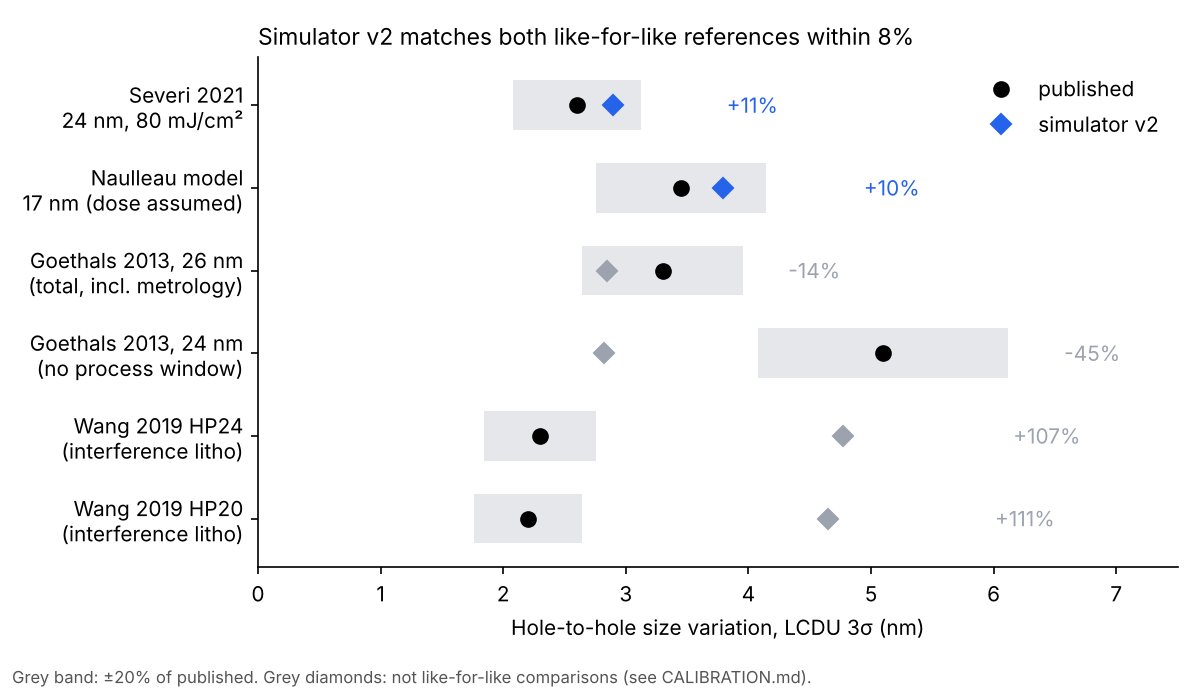
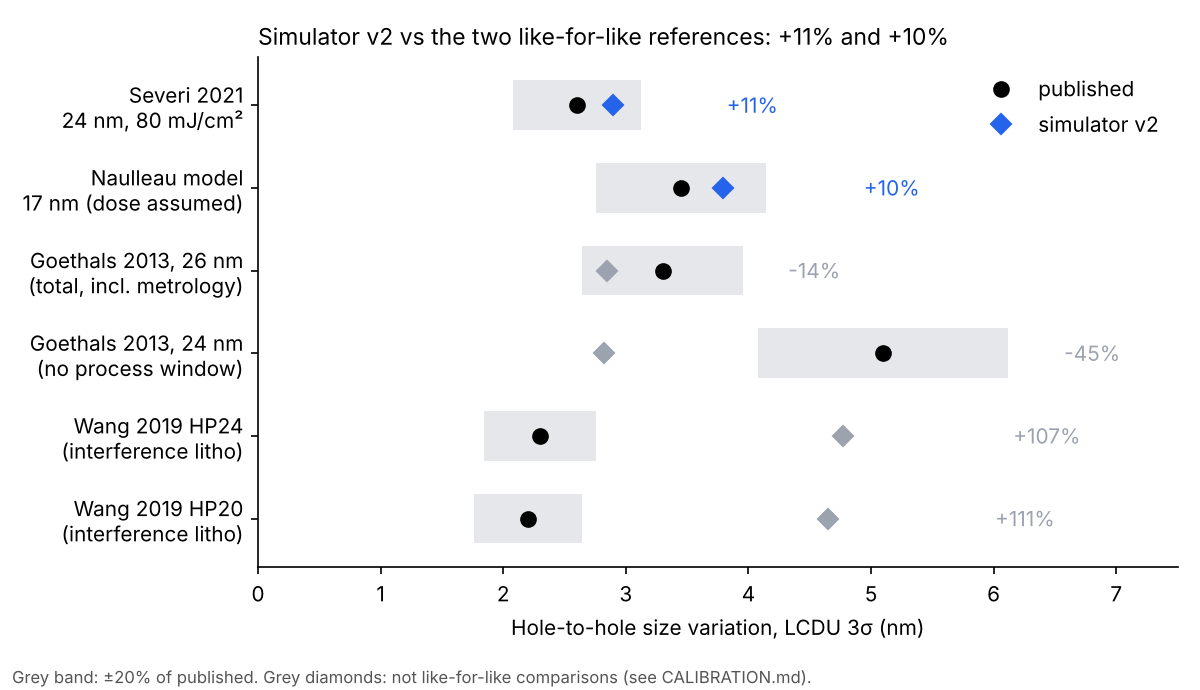
Second audit: fix stale calibration figure title and source attributions
- calibration_lcdu.png said "matches both like-for-like references within
  8%" (pass 1, since withdrawn); its own data shows +11% and +10%. Titles
  in make_figures.py are now computed from the data; figure regenerated
- CALIBRATION.md: credit QE, PAG and the deprotection rate to Naulleau &
  Gallatin 2018 (two authors, not "et al."); note that the 60 s bake behind
  K is assumed (the paper gives no bake time); remove the "Mack 2011,
  EUV stochastic quenching kinetics" citation, which could not be found
- SemiWiki/imec 1 ppm claim: the article doesn't say whether the 40 nm
  pitch pattern was holes or lines; wording narrowed in CALIBRATION.md and
  VERIFICATION.md
- README: full/test data are committed; run all 16 tests with pytest and
  the constants check; add pytest to requirements

Claude-Session: https://claude.ai/code/session_0129iss9DjfK2HnBe8XK94QD

Changed region(s): [[0.3392, 0.0304, 0.8017, 0.0913]]

diff --git a/sim/make_figures.py b/sim/make_figures.py
@@ -36,7 +36,10 @@ ax.set_yticks(range(len(rows)), [x[0] for x in rows])
 ax.invert_yaxis()
 ax.set_xlabel("Hole-to-hole size variation, LCDU 3σ (nm)")
 ax.set_xlim(0, 7.5)
-ax.set_title("Simulator v2 matches both like-for-like references within 8%", loc="left", fontsize=11)
+# headline computed from the like-for-like rows, not typed in (pass 1 said "within 8%", since withdrawn)
+like = [(d["lcdu_3s"] - d["published_lcdu"]) / d["published_lcdu"] for _, d, comparable in rows if comparable]
+ax.set_title("Simulator v2 vs the two like-for-like references: " + " and ".join(f"{v:+.0%}" for v in like),
+             loc="left", fontsize=11)
 ax.legend(loc="upper right", frameon=False)
 fig.text(0.01, 0.01, "Grey band: ±20% of published. Grey diamonds: not like-for-like comparisons (see CALIBRATION.md).",
          fontsize=8, color="#555")
@@ -45,11 +48,13 @@ fig.savefig(RESULTS + "/calibration_lcdu.png", dpi=150)
 
 # ---- 2. CD vs dose (Yen 2018) ----------------------------------------------------------
 y = r["T5_yen2018"]["sweep"]
+yen = {30: 15.0, 33: 17.4, 36: 19.5, 39: 21.2}   # Yen 2018 slides: dose (mJ/cm2) -> mean CD (nm)
 fig, ax = plt.subplots(figsize=(5.2, 3.8))
-ax.plot([30, 33, 36, 39], [15.0, 17.4, 19.5, 21.2], "o-", color="black", label="Yen 2018 (ASML simulation)")
+ax.plot(list(yen), list(yen.values()), "o-", color="black", label="Yen 2018 (ASML simulation)")
 ax.plot([s["dose"] for s in y], [s["mean_cd"] for s in y], "D--", color=BLUE, label="simulator v2")
 ax.set_xlabel("Dose (mJ/cm²)"); ax.set_ylabel("Mean hole size (nm)")
-ax.set_title("Printed size vs dose matches ASML's simulation within 5%", loc="left", fontsize=11)
+worst = max(abs(s["mean_cd"] - yen[s["dose"]]) / yen[s["dose"]] for s in y if s["dose"] in yen)
+ax.set_title(f"Printed size vs dose matches ASML's simulation within {np.ceil(worst * 100):.0f}%", loc="left", fontsize=11)
 ax.legend(frameon=False)
 fig.tight_layout(); fig.savefig(RESULTS + "/calibration_cd_vs_dose.png", dpi=150)
 

diff --git a/results/CALIBRATION.md b/results/CALIBRATION.md
@@ -6,7 +6,7 @@
 
 Simulator v2 produces realistic numbers for a typical chemically amplified resist. Hole-to-hole size variation (LCDU) lands between −14% and +29% across eight comparisons with typical processes (measured data, industry data and two other models). The best modern resists do 30–50% better than the model (these are non-CAR resists, so not like-for-like; see VERIFICATION.md, Nov 25 correction). Printed size versus dose matches an ASML simulation within 5%, and every qualitative trend in the literature appears. The resist parameter that gets fitted (quencher loading) always lands inside its published range.
 
-The weakest part is the **absolute rate of missing holes**. The failure cliffs have the right shape and roughly the right level (consistent with imec's ~1 ppm floor at 40 nm pitch), but rates are uncertain by about an order of magnitude. Treat them as estimates.
+The weakest part is the **absolute rate of missing holes**. The failure cliffs have the right shape and roughly the right level (consistent with imec's report, via SemiWiki 2019, that the two failure cliffs touch around 1 ppm for a 40 nm pitch pattern), but rates are uncertain by about an order of magnitude. Treat them as estimates.
 
 ## What the model does
 
@@ -29,15 +29,15 @@ Every hole gets a printed size (equivalent-circle diameter of its largest connec
 | --- | --- | --- |
 | Absorptivity | 4.2 /µm | Naulleau et al. (Berkeley MPPM model); Fallica 2015 measured 4.2–5.3 /µm for organic resists |
 | Film thickness | 35 nm | Naulleau et al.; Fallica 2015 (25–45 nm) |
-| Acids per absorbed photon (QE) | 2.8 | Naulleau et al., JM3 2018 (2.8); "Extreme stochastic events" (3) |
-| PAG density | 0.20 /nm³ | Naulleau et al.; Mack 2011 (0.2) |
+| Acids per absorbed photon (QE) | 2.8 | Naulleau & Gallatin, JM3 2018 (2.8); "Extreme stochastic events" (3) |
+| PAG density | 0.20 /nm³ | Naulleau et al. (0.2); Naulleau & Gallatin, JM3 2018 (0.2) |
 | Protecting groups | 2 /nm³ | Naulleau et al. |
 | Electron blur σ | 1.7 nm | Electron range 4 nm (Naulleau, read as full width at half maximum); Bhattarai 2017: 1.8–2 nm |
 | Acid diffusion σ | 5.0 nm | Acid range 10–12 nm (Naulleau, read as full width at half maximum); Gronheid 2011: ~4–5 nm |
 | Quencher diffusion σ | 1.3 nm | Quencher range 3 nm (Naulleau, read as full width at half maximum) |
-| Deprotection × bake, K | 60 nm³ | Naulleau et al., JM3 2018: 1 nm³/s × ~60 s bake |
+| Deprotection × bake, K | 60 nm³ | Naulleau & Gallatin, JM3 2018: deprotection rate 1 nm³/s, × an assumed 60 s bake (the paper gives no bake time) |
 | Development threshold | 50% deprotected | Assumed (standard threshold model) |
-| Quencher density | **fitted** per case | Must land in the published 0.012–0.09 /nm³ range (Mack 2011; Naulleau; AIP Advances 2025) |
+| Quencher density | **fitted** per case | Must land in the published 0.012–0.09 /nm³ range (Naulleau & Gallatin 2018: 0.09; Naulleau et al.: 0.085; AIP Advances 2025: base 10–20% of PAG) |
 
 The phrase "range" in Naulleau et al. is interpreted as full width at half maximum. That interpretation makes all three blur values agree with independent measurements.
 
@@ -94,11 +94,12 @@ On one CPU core: about 2,000 holes per setting in 1.2–2.2 s (4× longer with f
 
 - Severi, Lorusso, De Simone, Mack 2021, *Measuring and analyzing contact hole variations in EUV lithography*, Proc. SPIE 11609
 - Naulleau, Bhattarai, Neureuther, *Understanding Extreme Stochastic Events in EUV Resists* (escholarship.org, qt3qr9g2g7)
-- Naulleau et al. 2018, *Relative importance of various stochastic terms and EUV patterning*, JM3 17(4) 041015
+- Naulleau & Gallatin 2018, *Relative importance of various stochastic terms and EUV patterning*, JM3 17(4) 041015
 - Goethals et al. 2013, *EUV resist evaluation and process optimization towards NXE:3300*, EUVL Symposium
 - Wang et al. 2019, *Progress in EUV resists for contact holes printing using EUV interference lithography*, Proc. SPIE 11177
 - Yen 2018, EUVL Workshop slides (euvlitho.com/2018/P3.pdf)
-- Mack 2019, *Metrics for stochastic scaling in EUV lithography*, Proc. SPIE; Mack 2011, *EUV stochastic quenching kinetics* (lithoguru.com)
+- Mack 2019, *Metrics for stochastic scaling in EUV lithography*, Proc. SPIE
+- (Nov 26: an earlier version also cited "Mack 2011, *EUV stochastic quenching kinetics*". No publication with that title could be found, so it was removed; the PAG and quencher values it was cited for are covered by Naulleau & Gallatin 2018 and the AIP Advances paper.)
 - Fallica et al. 2015, EUV absorption coefficients of resists (EUVL Symposium poster)
 - Bhattarai 2017, UC Berkeley thesis EECS-2017-125; Gronheid et al. 2011, JM3 10(3) 033004
 - *Impact of chemical stochastics in EUV photoresists on the pattern quality*, AIP Advances 15, 035236 (2025)

diff --git a/results/VERIFICATION.md b/results/VERIFICATION.md
@@ -129,7 +129,7 @@ The cliff tails (rates of 10⁻⁴ to 0.2) were fitted as straight lines in log-
 | 50 mJ/cm² | 51.1 | 48.2 | 50.5 | 2 × 10⁻⁶ |
 | 80 mJ/cm² | 77.2 | 104.7 | 83.1 | 3 × 10⁻⁸ |
 
-A window with both rates below 10⁻⁶ opens for resists sized at roughly 55 mJ/cm² and above. ASML's simulation needs 79 mJ/cm² for the same goal, and imec measured cliffs touching around 1 ppm at this pitch. So v2 has the right order of magnitude but leans optimistic, consistent with the missing-hole comparisons above. Merging now needs a real bridge, so it starts at 160–180% of the sizing dose.
+A window with both rates below 10⁻⁶ opens for resists sized at roughly 55 mJ/cm² and above. ASML's simulation needs 79 mJ/cm² for the same goal, and imec reported the two failure cliffs touching around 1 ppm for a 40 nm pitch pattern (SemiWiki's summary does not say whether the pattern was holes or lines). So v2 has the right order of magnitude but leans optimistic, consistent with the missing-hole comparisons above. Merging now needs a real bridge, so it starts at 160–180% of the sizing dose.
 
 ### Fresh seeds, larger samples
 
@@ -188,7 +188,7 @@ Every number reproduces within 2%, so the comparisons are not luck of the draw.
 | P40 hexagonal pillars/CH LCDU 2.7 / 2.2 / 2.1 / 2.0 nm at 66 / 65 / 61 / 53 mJ/cm² (2018–2021) | ASML (van Schoot), EUVL Workshop 2021; Santaclara et al., EUVL Workshop 2021 | Slides read | Confirmed numbers. **Corrected Nov 25:** originally listed as CAR; the slides label 2018, 2019 and 2021 non-CAR and 2020 CAR |
 | P40 dense holes at 0.33 NA need 79 mJ/cm² for <10⁻⁶ defect rate | ASML, EUVL Workshop 2021 | Slides read | Confirmed; simulated |
 | 24 nm HP regular holes: LCDU 3.2 nm (small annular, 31 mJ/cm² resist) | van Ingen Schenau 2013 (ASML) | Slides via search | Confirmed numbers; sigma values assumed |
-| Cliffs "touch at around 1 ppm" at 40 nm pitch | imec via SemiWiki 2019 | Article text | Confirmed (dose not stated) |
+| Cliffs "touch at around 1 ppm" at 40 nm pitch | imec via SemiWiki 2019 | Article text | Confirmed (dose and feature type not stated) |
 | Absorptivity 4.2–5.3 /µm (CAR), 15–19 /µm (metal oxide); films 25–45 nm | Fallica 2015 | Full poster read | Confirmed |
 | ~2 acids per absorbed photon; electron blur 1.8–2 nm | Bhattarai 2017 | Full text read | Confirmed |
 | Total blur ~4 nm at lowest bake; acid diffusion target ~5 nm | Gronheid 2011 | Abstract | Confirmed |

diff --git a/README.md b/README.md
@@ -64,14 +64,15 @@ results/      figures, calibration and verification reports, QA reports, small C
   ml/                    cv_scores.csv, heldout_scores.csv, leakage_comparison.csv
 data/
   pilot/                 50-resist pilot dataset (committed)
-  full/, test/           full and held-out datasets (not committed; regenerate below)
+  full/, test/           full and held-out datasets (committed; can also be regenerated below)
 ```
 
 ## Run
 
 ```bash
 pip install -r requirements.txt
-python sim/test_simulator_v2.py   # ~35 s
+python -m pytest sim              # all 16 unit tests, ~50 s
+python sim/constants_check.py     # 12 independent constant and formula checks
 python sim/simulator_v2.py        # one quick dose-to-size example
 python sim/calibrate.py           # ~5 min
 python sim/make_figures.py
